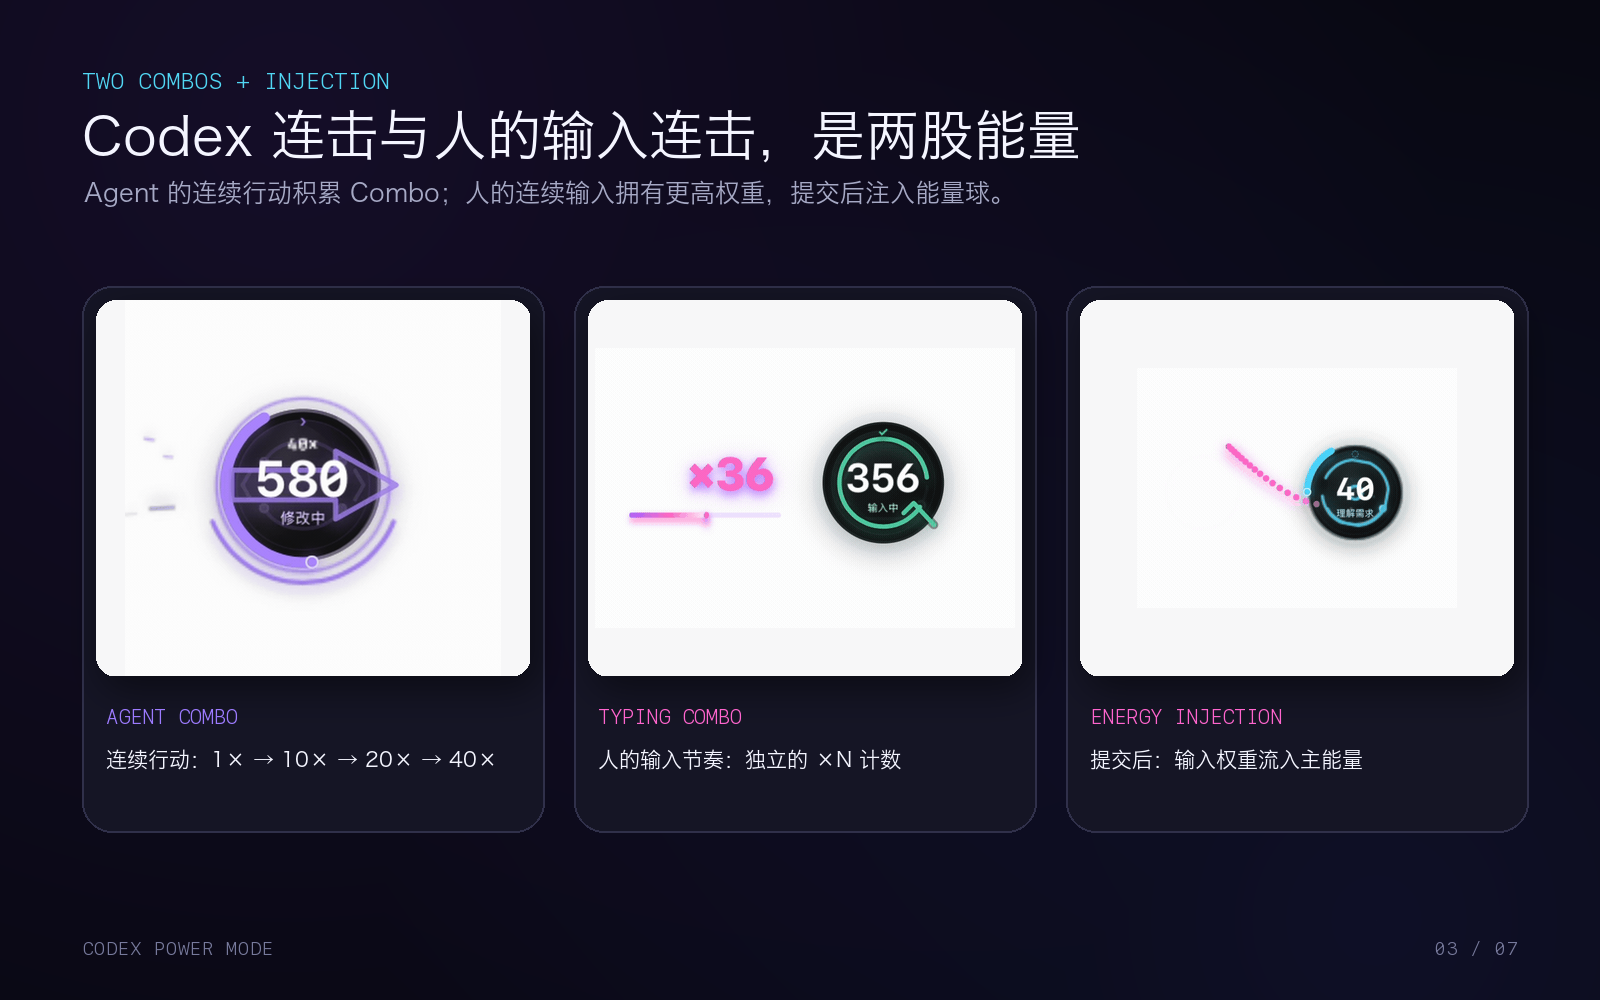
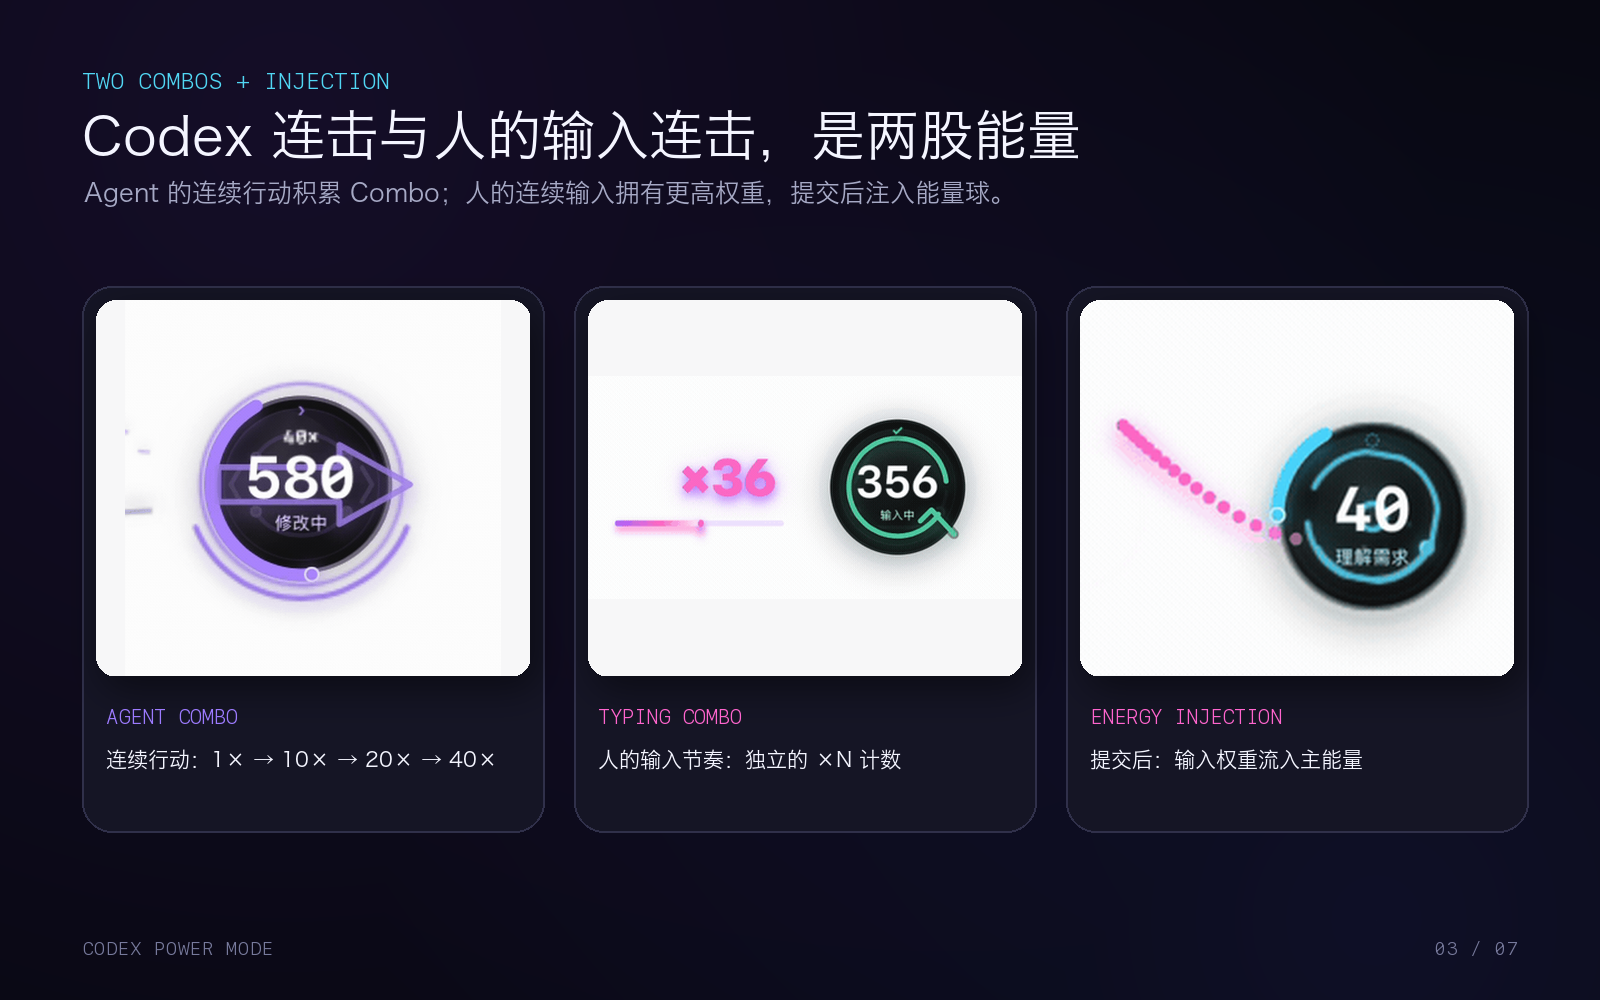
docs: separate English and Chinese visual galleries

Changed region(s): [[0.6875, 0.403, 0.9375, 0.651], [0.0938, 0.372, 0.2812, 0.62], [0.375, 0.403, 0.625, 0.589]]

diff --git a/README.md b/README.md
@@ -51,16 +51,16 @@ Treat it like the old Power Mode: something made because coding is allowed to be
 
 ## The whole idea in four frames
 
-The GIFs below show the motion, but these real captured frames explain the system at a glance.
+The GIFs below show the motion. These project-authored stills are rendered from the same native HUD and explain the system at a glance without mixing languages.
 
 <p align="center">
-  <img src="docs/media/static-gallery/energy-evolution.png" width="92%" alt="Five captured Energy tiers: Wake, Charge, Drive, Critical, and Peak">
+  <img src="docs/media/static-gallery/energy-evolution-en.png" width="92%" alt="Five English Energy tiers: Wake, Charge, Drive, Critical, and Peak">
 </p>
 
 Energy does not merely change color. One connected mechanism gains nodes, links, direction, locks, and finally a synchronized crown as useful work accumulates.
 
 <p align="center">
-  <img src="docs/media/static-gallery/semantic-states.png" width="92%" alt="Eight captured Codex states including the full editing arrow">
+  <img src="docs/media/static-gallery/semantic-states-en.png" width="92%" alt="Eight English Codex states">
 </p>
 
 The HUD gives Codex a readable body language: understand, search, edit, execute, verify, wait, recover, and complete. The large editing arrow is a transient action—not permanent decoration.
@@ -71,8 +71,8 @@ The HUD gives Codex a readable body language: understand, search, edit, execute,
     <th width="50%">Four honest endings</th>
   </tr>
   <tr>
-    <td><img src="docs/media/static-gallery/combos-and-injection.png" width="100%" alt="Agent Combo, Typing Combo, and visible Energy injection trail"></td>
-    <td><img src="docs/media/static-gallery/completion-outcomes.png" width="100%" alt="Verified, unverified, cancelled, and no-change completion outcomes"></td>
+    <td><img src="docs/media/static-gallery/combos-and-injection-en.png" width="100%" alt="English Agent Combo, Typing Combo, and visible Energy injection trail"></td>
+    <td><img src="docs/media/static-gallery/completion-outcomes-en.png" width="100%" alt="English verified, unverified, cancelled, and no-change completion outcomes"></td>
   </tr>
   <tr>
     <td>Codex builds Agent Combo. Your input builds a separate Typing Combo, then visibly streams into the orb as a higher-weight Energy charge.</td>
@@ -82,7 +82,7 @@ The HUD gives Codex a readable body language: understand, search, edit, execute,
 
 ## See it move
 
-These are real screen recordings from Codex desktop—not design mockups. The capture build used an isolated local session and a blank task, so no prompt, source code, task name, or personal data appears in the media.
+These English motion previews are deterministic storyboards rendered by the same native HUD implementation. They keep the README language-consistent and contain no prompt, source code, task name, or personal data.
 
 <table>
   <tr>
@@ -90,8 +90,8 @@ These are real screen recordings from Codex desktop—not design mockups. The ca
     <th width="50%">The agent has a body language</th>
   </tr>
   <tr>
-    <td align="center"><img src="docs/media/real-energy-evolution.gif" width="360" alt="Real recording of five Energy tiers evolving"></td>
-    <td align="center"><img src="docs/media/real-agent-states.gif" width="360" alt="Real recording of Codex understanding, searching, editing, executing, verifying, waiting, recovering, and completing"></td>
+    <td align="center"><img src="docs/media/energy-demo.gif" width="360" alt="English native storyboard of five Energy tiers evolving"></td>
+    <td align="center"><img src="docs/media/arcade-demo.gif" width="360" alt="English native storyboard of Codex observing, acting, verifying, and completing"></td>
   </tr>
   <tr>
     <td>Wake → Charge → Drive → Critical → Peak. The same nodes migrate and reconnect instead of stacking unrelated decorations.</td>
@@ -99,29 +99,9 @@ These are real screen recordings from Codex desktop—not design mockups. The ca
   </tr>
 </table>
 
-### Two kinds of Combo, one shared sense of momentum
-
-<table>
-  <tr>
-    <th width="33%">Agent Combo</th>
-    <th width="33%">Typing Combo</th>
-    <th width="33%">Human input becomes Energy</th>
-  </tr>
-  <tr>
-    <td align="center"><img src="docs/media/real-agent-combo.gif" width="280" alt="Real Agent Combo growth, warning, and disconnect animation"></td>
-    <td align="center"><img src="docs/media/real-typing-combo.gif" width="280" alt="Real Typing Combo generated by keyboard input"></td>
-    <td align="center"><img src="docs/media/real-typing-injection.gif" width="280" alt="Real Typing Combo collapsing into an Energy injection"></td>
-  </tr>
-  <tr>
-    <td>Codex actions build the outer arc through Ignite, Link, Accel, Heat, and Extreme—then visibly fracture when the chain expires.</td>
-    <td>Your own input rhythm gets a separate counter. Power Mode tracks timing, never the characters you type.</td>
-    <td>Submit pulls the human Combo into the orb as a deliberately high-weight charge, because the instruction steers everything that follows.</td>
-  </tr>
-</table>
-
 <p align="center">
   <strong>And completion does not celebrate work that was never verified.</strong><br><br>
-  <img src="docs/media/real-completion-outcomes.gif" width="520" alt="Real recording of verified, unverified, cancelled, and no-change completion outcomes">
+  <img src="docs/media/completion-demo.gif" width="520" alt="English native storyboard of verified, unverified, cancelled, and no-change completion outcomes">
 </p>
 
 ## Quick start
@@ -241,8 +221,8 @@ Some days call for a quiet spark. Other days call for a liquid wormhole, a judgm
     <th width="50%">Five ways to make the input box less respectable</th>
   </tr>
   <tr>
-    <td><img src="docs/media/static-gallery/cursor-geometric.png" width="100%" alt="Static detail gallery of eight geometric cursor effects"></td>
-    <td><img src="docs/media/static-gallery/cursor-memes.png" width="100%" alt="Static detail gallery of Chinese meme words, possum, cat, dog, and elegant person effects"></td>
+    <td><img src="docs/media/static-gallery/cursor-geometric-en.png" width="100%" alt="English static detail gallery of eight geometric cursor effects"></td>
+    <td><img src="docs/media/static-gallery/cursor-memes-en.png" width="100%" alt="English static detail gallery of meme words, possum, cat, dog, and elegant person effects"></td>
   </tr>
 </table>
 
@@ -254,65 +234,14 @@ And yes, they actually move:
     <th width="50%">The meme department has arrived</th>
   </tr>
   <tr>
-    <td align="center"><img src="docs/media/real-cursor-geometric.gif" width="390" alt="Real keyboard recording of Sparks, Neon, Orbit, Ripple, Prism, Wormhole, Glitch, and Tentacle cursor effects"></td>
-    <td align="center"><img src="docs/media/real-cursor-memes.gif" width="390" alt="Real keyboard recording of Chinese meme words, possum, fresh cat, knife-shield dog, and elegant person cursor effects"></td>
+    <td align="center"><img src="docs/media/cursor-power-demo.gif" width="390" alt="Native storyboard of Sparks, Orbit, Ripple, Prism, and Neon cursor effects"></td>
+    <td align="center"><img src="docs/media/cursor-meme-demo.gif" width="390" alt="Native storyboard of possum, fresh cat, knife-shield dog, and elegant person cursor effects"></td>
   </tr>
   <tr>
     <td>Sparks · Neon · Orbit · Ripple · Prism · Liquid Wormhole · Glitch Slices · Soft Tentacles</td>
     <td>典急孝乐绷赢 · Hands-behind Possum · Fresh Cat · Knife-shield Dog · Elegant Person</td>
   </tr>
 </table>
-
-<details>
-<summary><strong>Open the full 13-effect gallery</strong></summary>
-<br>
-<table>
-  <tr>
-    <th>Sparks</th>
-    <th>Neon</th>
-    <th>Orbit</th>
-    <th>Ripple</th>
-  </tr>
-  <tr>
-    <td><img src="docs/media/cursor-gallery/spark.gif" width="190" alt="Sparks cursor effect"></td>
-    <td><img src="docs/media/cursor-gallery/neon.gif" width="190" alt="Neon cursor effect"></td>
-    <td><img src="docs/media/cursor-gallery/orbit.gif" width="190" alt="Orbit cursor effect"></td>
-    <td><img src="docs/media/cursor-gallery/ripple.gif" width="190" alt="Ripple cursor effect"></td>
-  </tr>
-  <tr>
-    <th>Prism</th>
-    <th>Liquid Wormhole</th>
-    <th>Glitch Slices</th>
-    <th>Soft Tentacles</th>
-  </tr>
-  <tr>
-    <td><img src="docs/media/cursor-gallery/prism.gif" width="190" alt="Prism cursor effect"></td>
-    <td><img src="docs/media/cursor-gallery/wormhole.gif" width="190" alt="Liquid Wormhole cursor effect"></td>
-    <td><img src="docs/media/cursor-gallery/glitch.gif" width="190" alt="Glitch Slices cursor effect"></td>
-    <td><img src="docs/media/cursor-gallery/tentacle.gif" width="190" alt="Soft Tentacles cursor effect"></td>
-  </tr>
-  <tr>
-    <th>典急孝乐绷赢</th>
-    <th>Hands-behind Possum</th>
-    <th>Fresh Cat</th>
-    <th>Knife-shield Dog</th>
-  </tr>
-  <tr>
-    <td><img src="docs/media/cursor-gallery/meme.gif" width="190" alt="Chinese meme word cursor effect"></td>
-    <td><img src="docs/media/cursor-gallery/possum.gif" width="190" alt="Hands-behind Possum cursor effect"></td>
-    <td><img src="docs/media/cursor-gallery/freshcat.gif" width="190" alt="Fresh Cat cursor effect"></td>
-    <td><img src="docs/media/cursor-gallery/knifeshield.gif" width="190" alt="Knife-shield Dog cursor effect"></td>
-  </tr>
-  <tr>
-    <th>Elegant Person</th>
-    <th colspan="3">New input dismisses the old effect immediately—no sticker traffic jam.</th>
-  </tr>
-  <tr>
-    <td><img src="docs/media/cursor-gallery/elegant.gif" width="190" alt="Elegant Person cursor effect"></td>
-    <td colspan="3">Every clip above is a real keyboard recording with the Typing Combo and orb visible beside the composer.</td>
-  </tr>
-</table>
-</details>
 
 Cursor effects are optional and independent from the large Typing Combo counter. Fast input never becomes a sticker traffic jam: every new effect dismisses the previous one immediately. The four legacy sticker families ship locally, so nothing is fetched at runtime; their separate rights status is documented in [Third-party notices](THIRD_PARTY_NOTICES.md).
 

diff --git a/docs/MEDIA.md b/docs/MEDIA.md
@@ -46,6 +46,8 @@ The six PNG files in `docs/media/static-gallery/` are editorial layouts composed
 
 They add project-authored headings, captions, dark panels, and spacing around the unchanged captured HUD frames. The semantic-state layout deliberately uses the transient full editing arrow, while the Combo layout uses a frame where the Typing charge trail is visibly entering the orb. These static summaries follow the same privacy boundary as the source recordings and contain no additional runtime data.
 
+The matching `*-en.png` files form a separate English README set. They are composed from deterministic native QA renders rather than the Chinese screen recordings, so both the editorial text and the HUD's internal labels remain English. The English injection panel combines the project-rendered English orb with a project-authored dotted charge path; it does not depict external or personal data.
+
 ## Reproduce the QA set
 
 On macOS with the system Swift toolchain:
